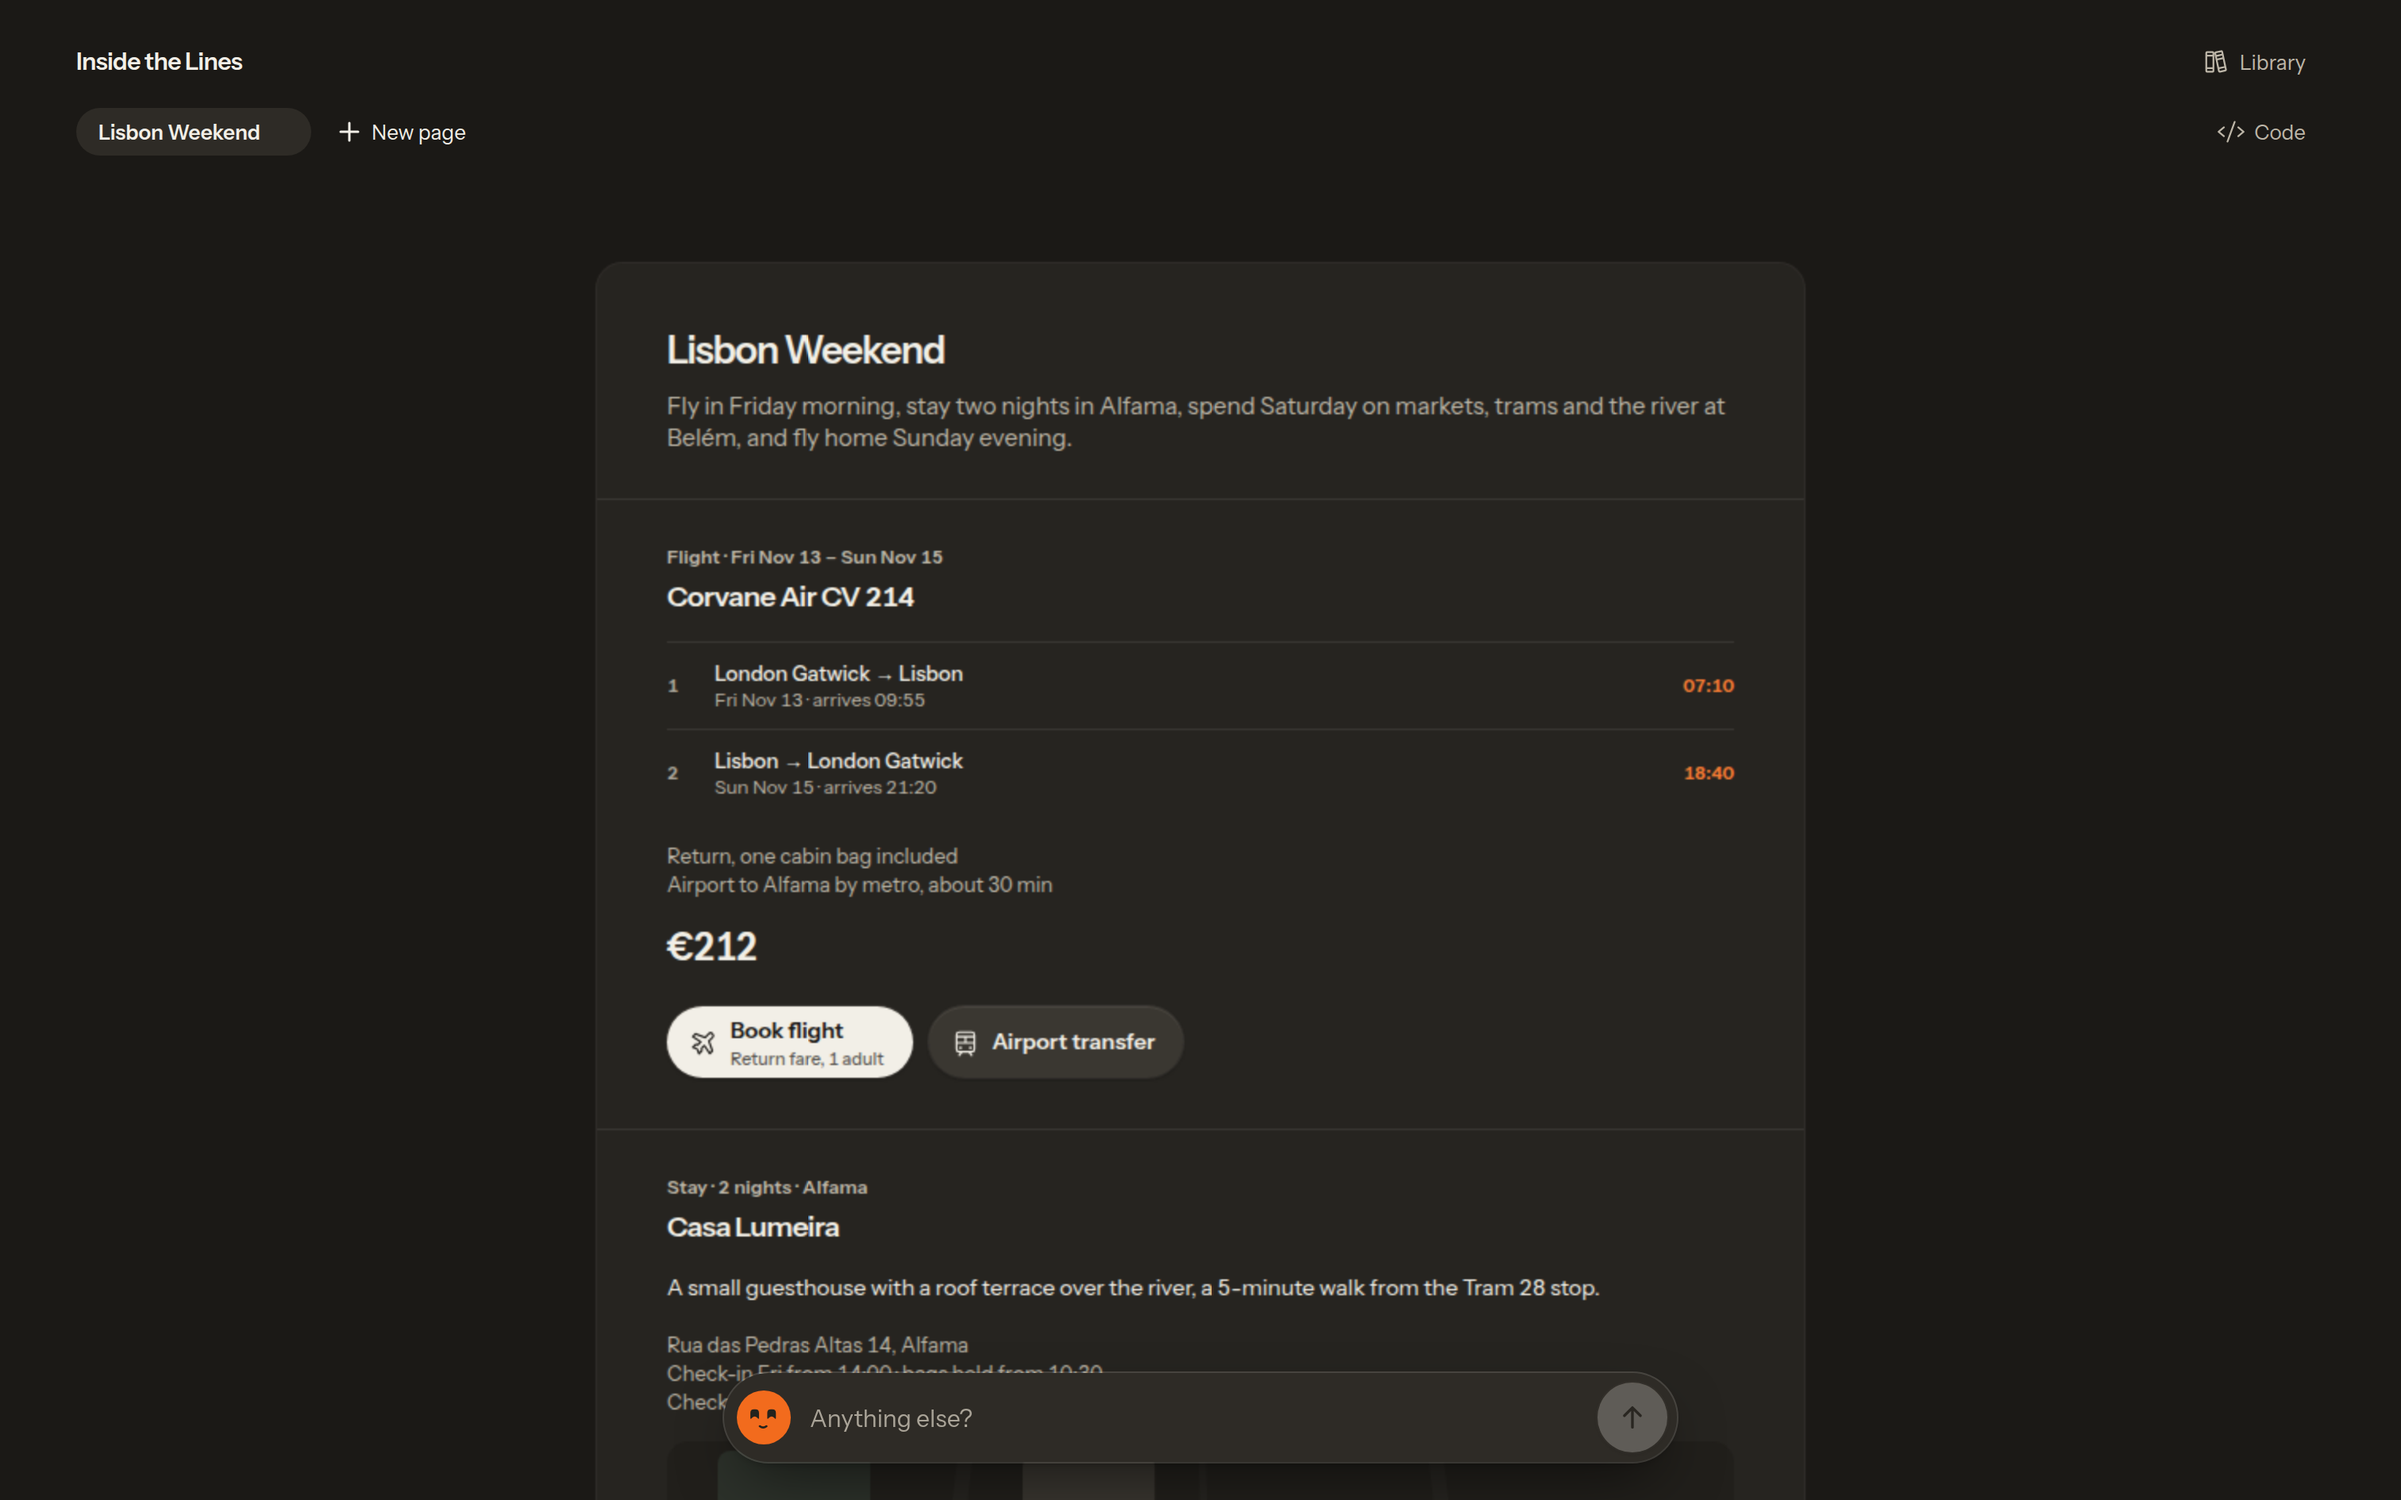
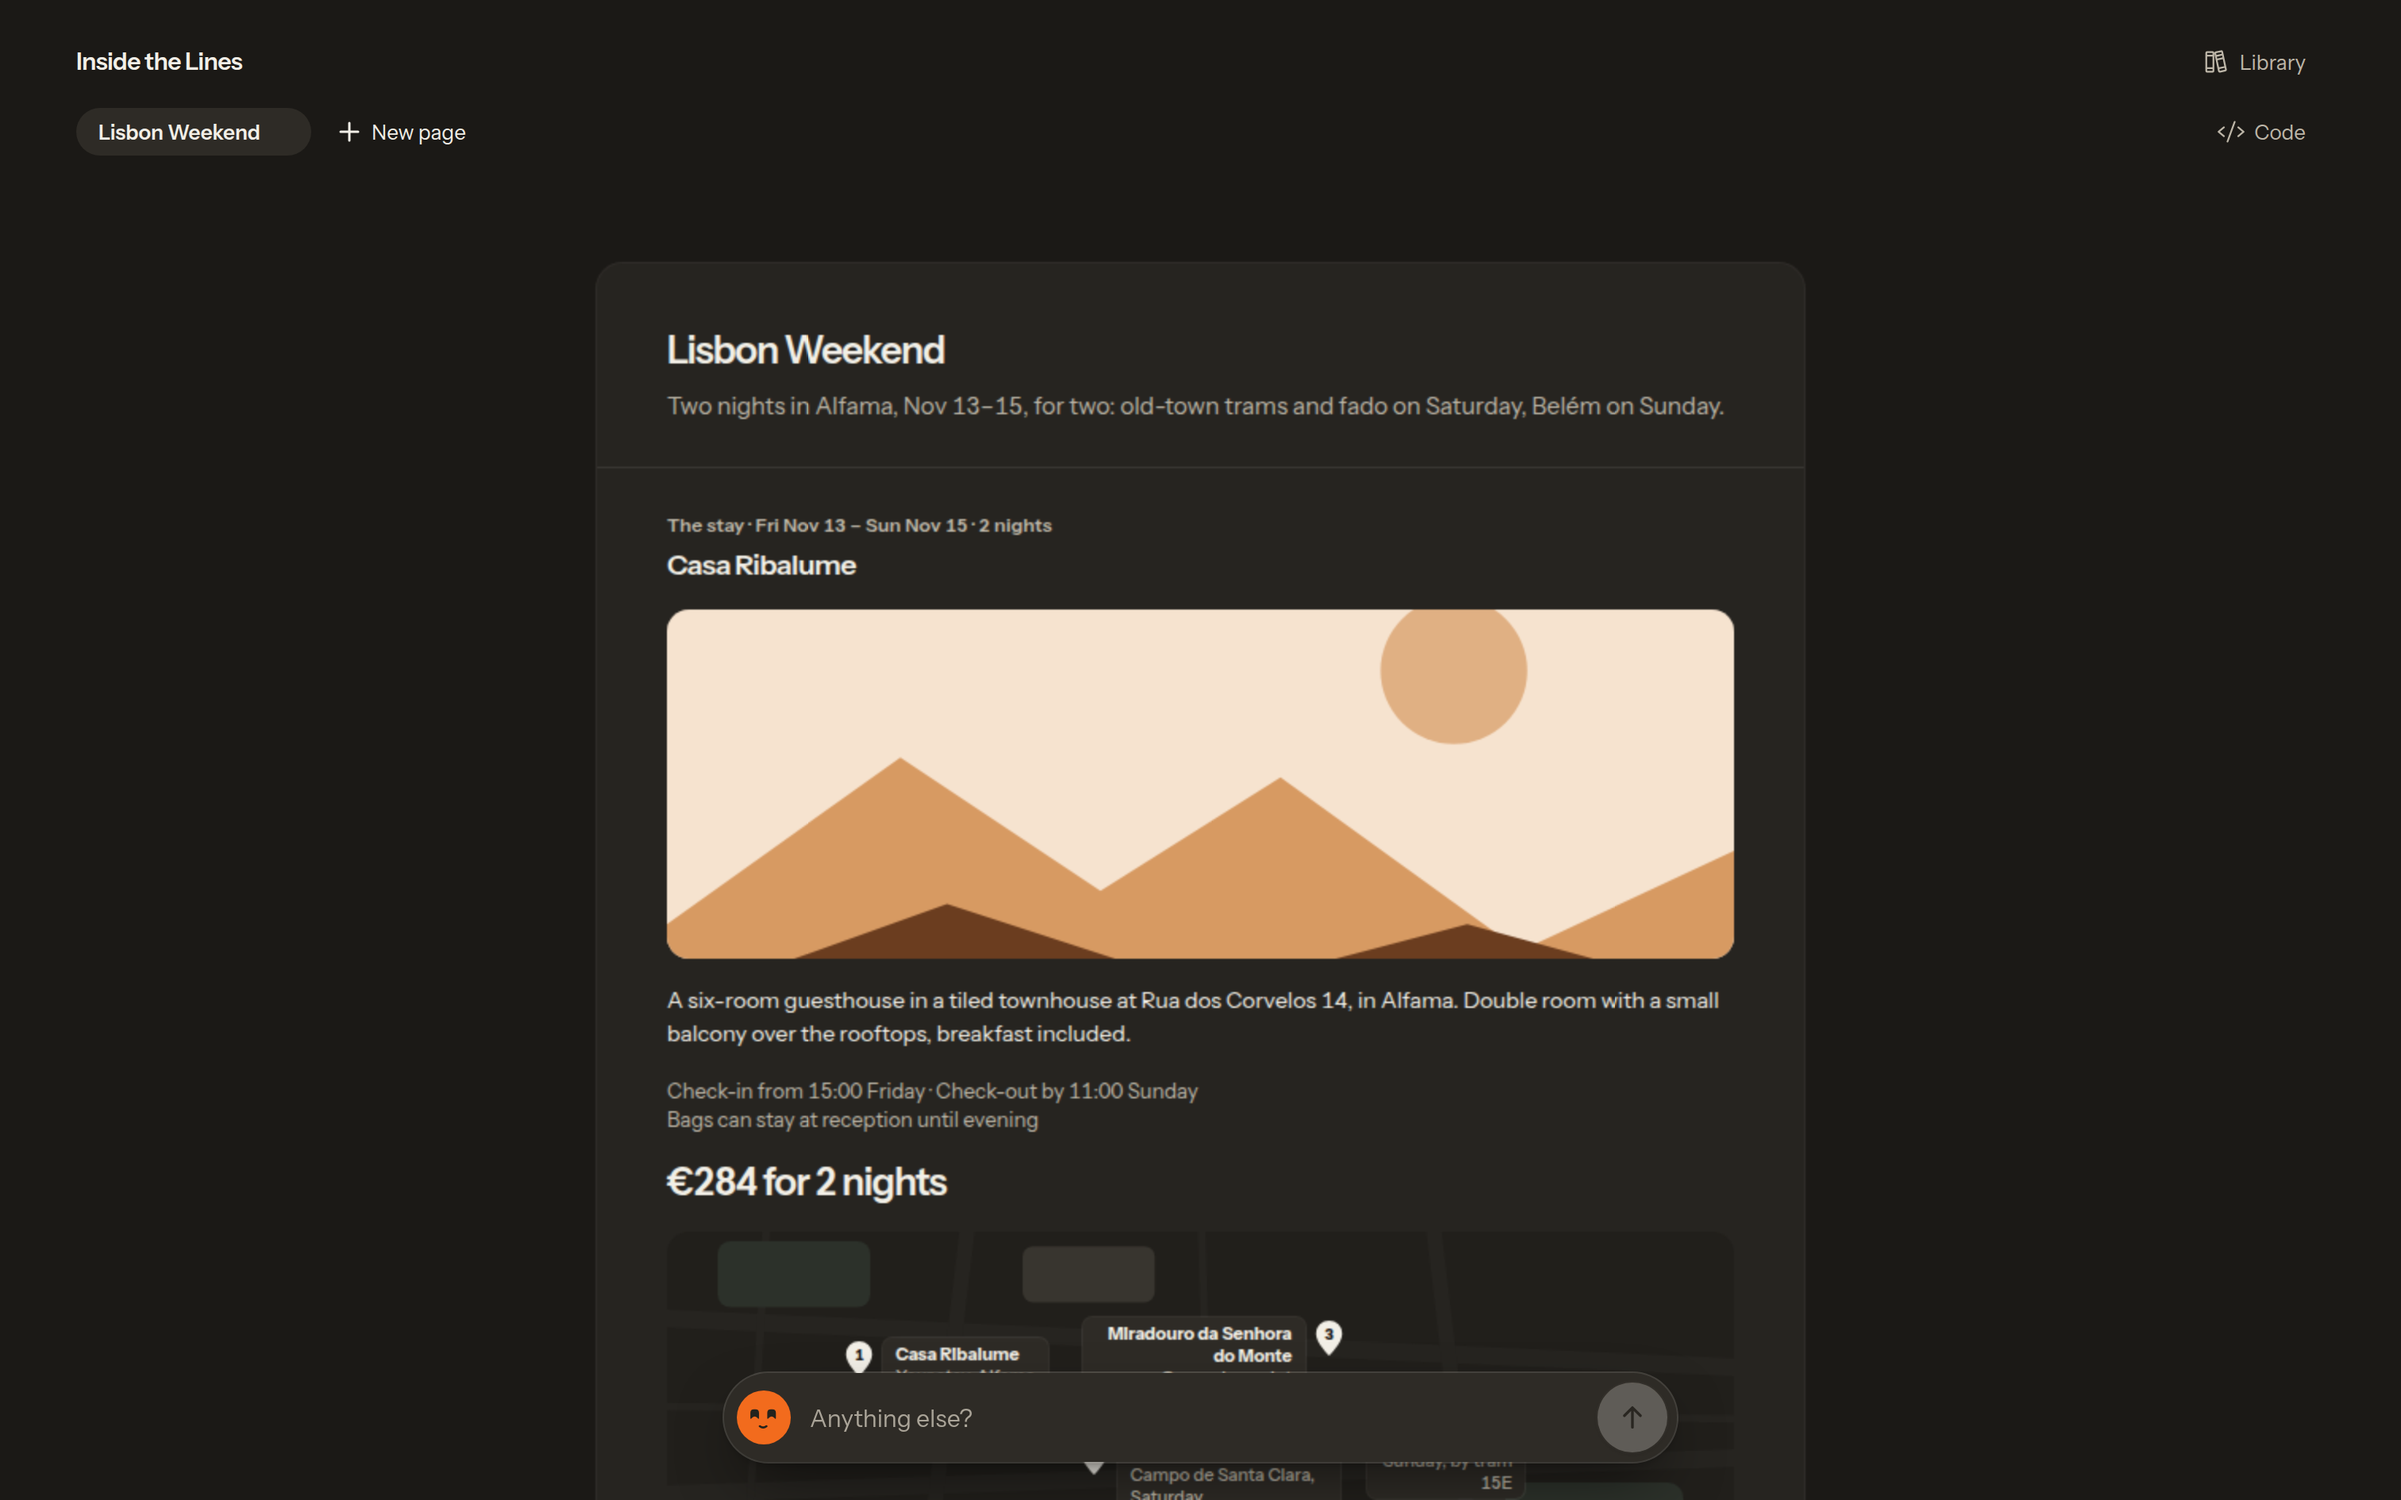
Lisbon as a trip for two throughout
- Prompt: who is going is the same party everywhere, from the costs to a
  table booking
- Lisbon re-recorded: the costs, tickets, passes and the dinner table all
  count two; its asks are now Getting there and Swap for Cascais
- Screenshots of the Lisbon page refreshed

diff --git a/src/lib/server/page-prompt.ts b/src/lib/server/page-prompt.ts
@@ -58,7 +58,7 @@ When no part fits (a timeline, a seat map, a progress bar, a calendar strip), bu
 - Everything is a plausible, concrete, made-up example: invent people, businesses, products and services. NEVER use or mention real brands, real companies (airlines, hotels and shops included), real products, real artists or real people, not even in passing (no Starbucks, Spotify, Uber, Google, Lufthansa, Atlas Air, "not on Delta", …). Places may be in real cities, with invented names and street numbers.
 - Coin names no business uses yet: not a common surname or word on its own (Fenwick is a real store). Invent fresh street names for each page, not the stock ones (Alder, Elm, Maple, Oak, Main).
 - What you say about a real place is true (a market's days, a tram's route, a metro line). When unsure, say less ("by metro, about 30 min") or use an invented venue.
-- Make the facts add up: valid times, nights that match the dates, totals that match their lines. A fact said twice says the same thing (a 3-minute walk is 3 minutes in every section), and the lede matches the sections.
+- Make the facts add up: valid times, nights that match the dates, totals that match their lines. A fact said twice says the same thing (a 3-minute walk is 3 minutes in every section; who is going is the same party everywhere, from the costs to a table booking), and the lede matches the sections.
 - Copy is short and concrete. No emoji. No chat threads or message bubbles: an action may send something to someone ("Send to Mara" → "Sent"), with local state.
 - Make it live: actions that settle something switch with $state ("Reserve room" → "Room reserved"); actions that show more call ask().
 
